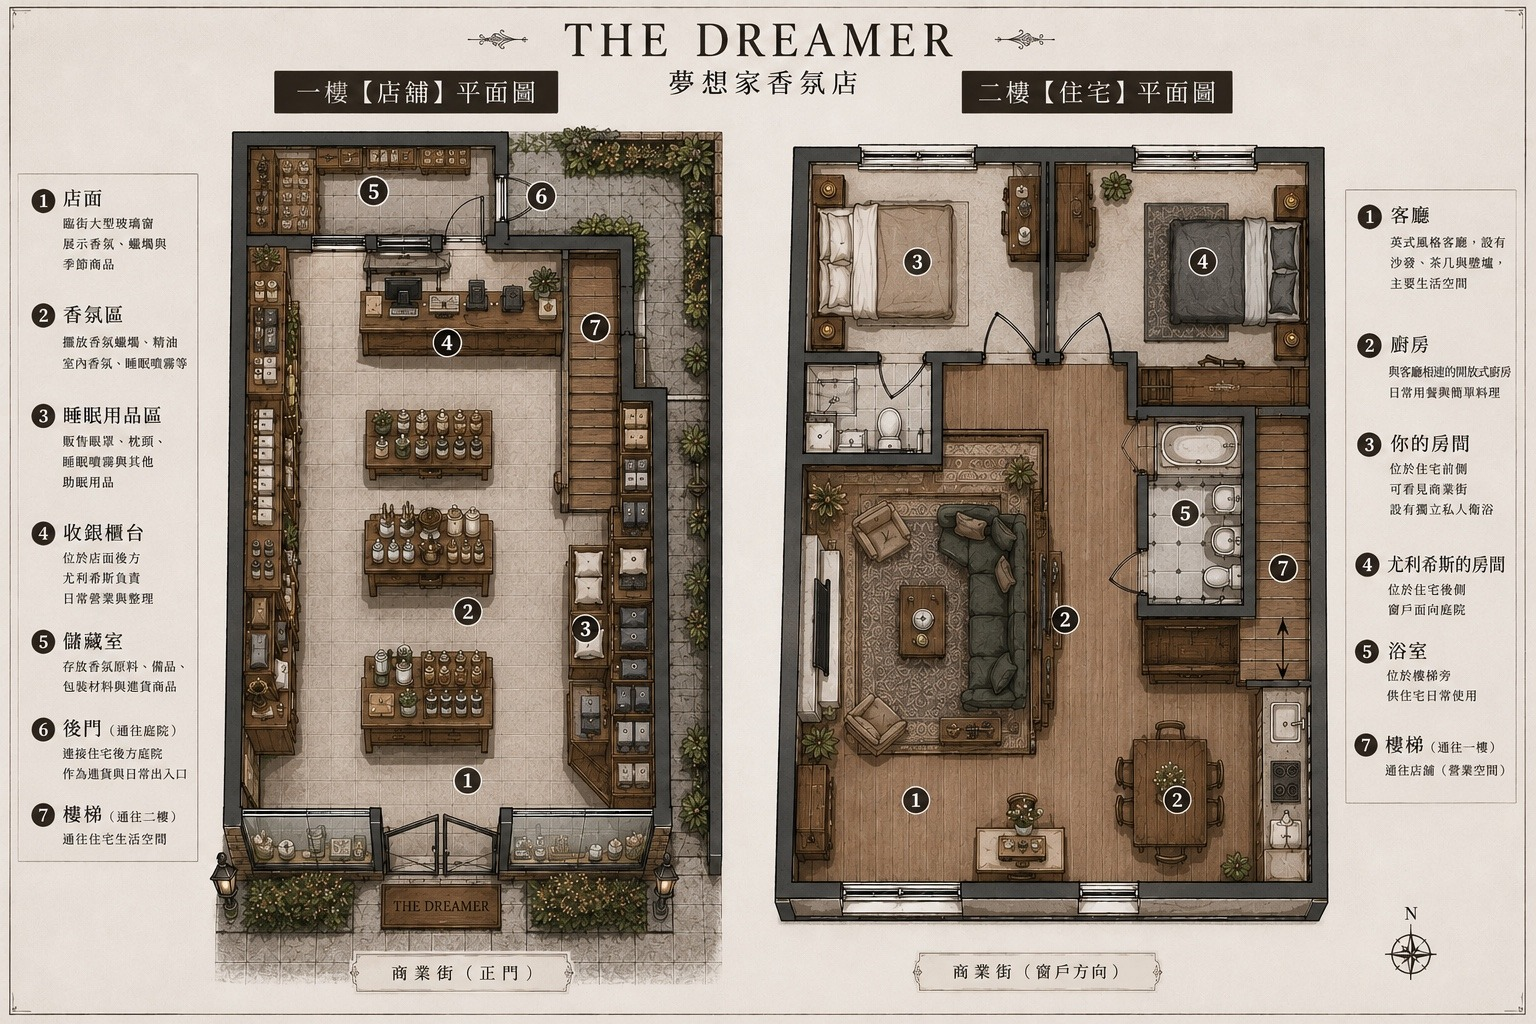
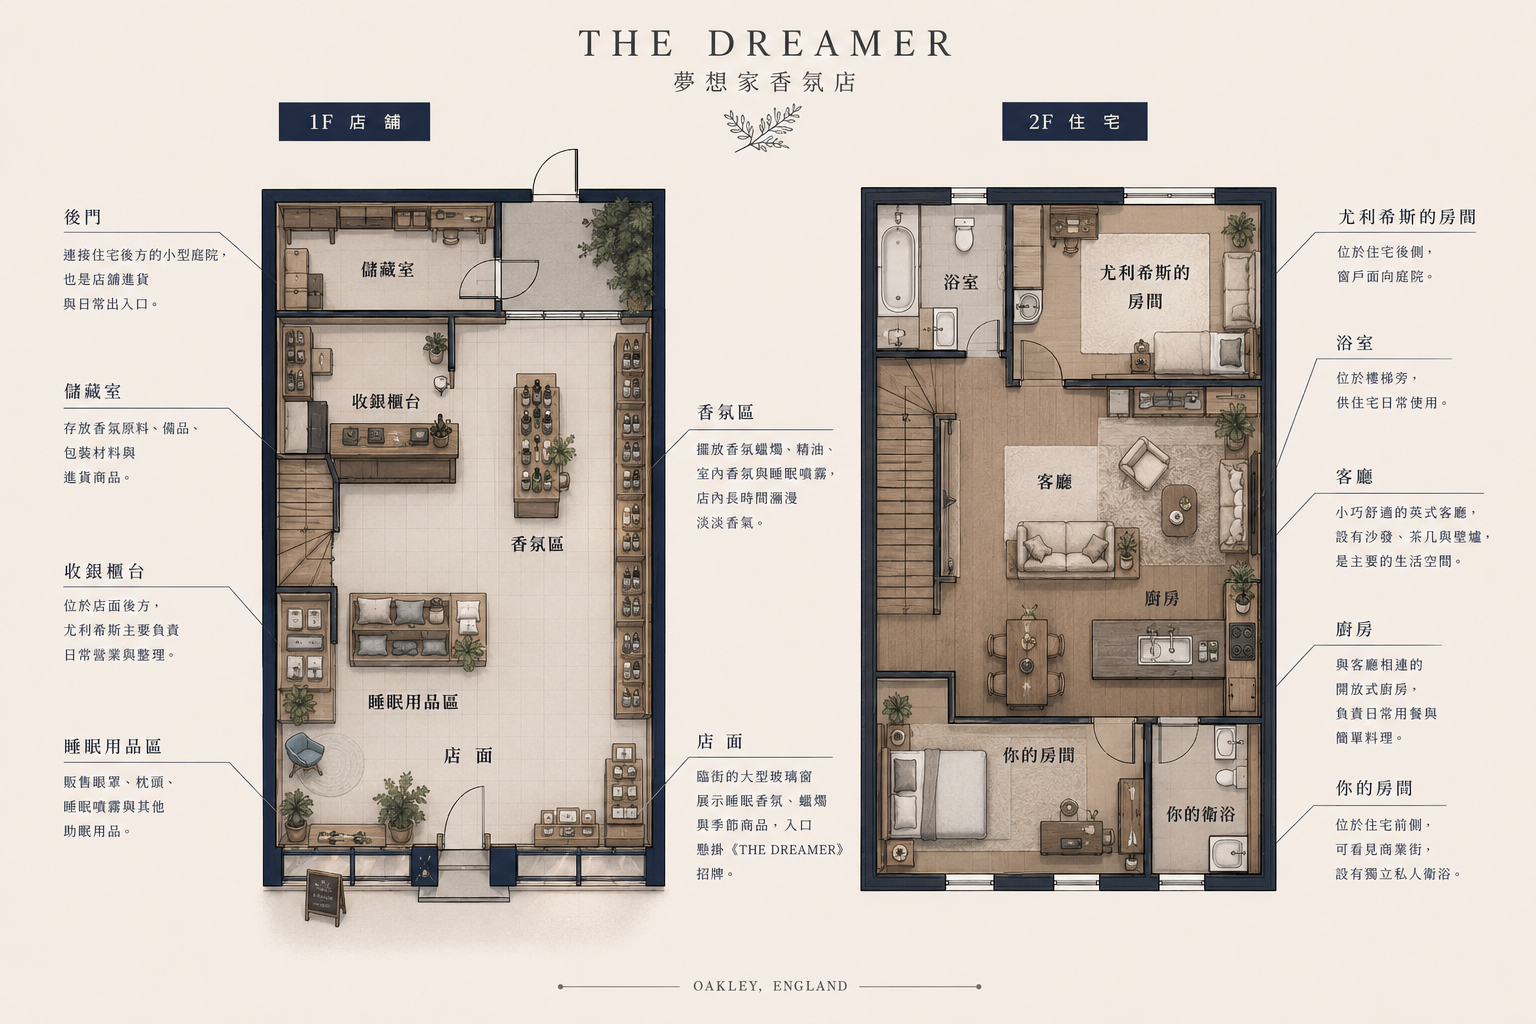
Add files via upload

diff --git a/index.html b/index.html
@@ -3,82 +3,184 @@
 <head>
 <meta charset="UTF-8">
 <meta name="viewport" content="width=device-width, initial-scale=1.0">
+<meta name="description" content="THE DREAMER｜夢想家香氛店 — Sleep & Fragrance">
 <title>THE DREAMER｜夢想家香氛店</title>
 <style>
-@import url('https://fonts.googleapis.com/css2?family=Cormorant+Garamond:wght@400;500;600&family=Noto+Serif+TC:wght@400;500;600&display=swap');
+:root{
+  --cream:#f5f0e8; --paper:#fbf8f2; --navy:#18263a; --ink:#29303a;
+  --muted:#756f66; --line:#d8d0c4; --gold:#a28b68;
+}
 *{box-sizing:border-box}
 html{scroll-behavior:smooth}
-body{margin:0;background:#f3eee7;color:#332d27;font-family:"Noto Serif TC",serif}
-nav{position:sticky;top:0;z-index:10;background:rgba(243,238,231,.96);border-bottom:1px solid #b8aa99;padding:18px 6%;display:flex;justify-content:space-between;align-items:center}
-.brand{font-family:"Cormorant Garamond",serif;font-size:27px;letter-spacing:3px}
-nav a{color:inherit;text-decoration:none;margin-left:25px;font-size:14px}
-.hero{display:grid;grid-template-columns:1.1fr .9fr;min-height:560px}
-.hero img{width:100%;height:100%;object-fit:cover;min-height:560px}
-.hero-copy{display:flex;flex-direction:column;justify-content:center;padding:60px 8%;background:#eee7de}
-.kicker{letter-spacing:5px;font-size:15px;color:#7d6d5d}
-h1{font-family:"Cormorant Garamond",serif;font-size:clamp(60px,8vw,110px);font-weight:500;letter-spacing:5px;line-height:.9;margin:20px 0}
-h2{font-family:"Cormorant Garamond","Noto Serif TC",serif;font-size:38px;font-weight:500;letter-spacing:3px}
-.rule{width:130px;border-top:1px solid #756657;margin:22px 0}
-.copy{line-height:2;font-size:15px;color:#5d5147}
-.button{display:inline-block;margin-top:24px;padding:13px 30px;border:1px solid #54483e;border-radius:2px;color:#fff;background:#3c352e;text-decoration:none;width:max-content}
-section{padding:90px 7%;border-bottom:1px solid #c9bcae}
-.intro{text-align:center;max-width:760px;margin:auto}
-.plans{display:grid;grid-template-columns:1fr 1fr;gap:35px;margin-top:45px}
-.card{background:#e9e1d8;border:1px solid #bdb0a1;padding:18px}
-.card img{display:block;width:100%;height:auto}
-.card h3{text-align:center;font-weight:500;letter-spacing:2px;margin:16px 0 4px}
-footer{background:#302a25;color:#eee4d8;padding:45px 7%;text-align:center;letter-spacing:2px}
-@media(max-width:800px){
- .hero{grid-template-columns:1fr}
- .hero img{min-height:360px;height:360px}
- .hero-copy{min-height:430px}
- nav{padding:15px 5%}
- nav div:last-child{display:none}
- .plans{grid-template-columns:1fr}
- section{padding:60px 5%}
+body{margin:0;background:var(--paper);color:var(--ink);font-family:Georgia,"Noto Serif TC","Songti TC",serif;line-height:1.9}
+img{display:block;width:100%;height:auto}
+a{color:inherit;text-decoration:none}
+.nav{
+  position:fixed;z-index:20;top:0;left:0;right:0;
+  padding:16px 5vw;display:flex;justify-content:space-between;align-items:center;
+  background:rgba(251,248,242,.92);backdrop-filter:blur(12px);
+  border-bottom:1px solid rgba(216,208,196,.7)
+}
+.logo{font-size:18px;letter-spacing:.28em;color:var(--navy);white-space:nowrap}
+.navlinks{display:flex;gap:28px;font-size:13px;letter-spacing:.08em;color:#625d55}
+.navlinks a:hover{color:var(--navy)}
+.hero{position:relative;min-height:100vh;display:grid;place-items:end center;overflow:hidden}
+.hero img{position:absolute;inset:0;width:100%;height:100%;object-fit:cover}
+.hero:after{content:"";position:absolute;inset:0;background:linear-gradient(180deg,rgba(15,25,40,.05),rgba(15,25,40,.58))}
+.hero-copy{position:relative;z-index:2;text-align:center;color:#fff;padding:0 20px 11vh}
+.eyebrow{font-size:12px;letter-spacing:.38em;text-transform:uppercase}
+.hero h1{font-size:clamp(42px,7vw,88px);font-weight:400;letter-spacing:.2em;margin:8px 0}
+.hero p{font-size:18px;letter-spacing:.16em;margin:0 0 24px}
+.btn{display:inline-block;border:1px solid rgba(255,255,255,.8);padding:9px 24px;font-size:12px;letter-spacing:.18em}
+section{padding:110px 7vw}
+.section-head{text-align:center;margin-bottom:54px}
+.section-head .small{font-size:11px;letter-spacing:.28em;color:var(--gold);text-transform:uppercase}
+.section-head h2{font-size:34px;font-weight:400;letter-spacing:.18em;margin:7px 0 0;color:var(--navy)}
+.section-head p{max-width:720px;margin:15px auto 0;color:var(--muted);font-size:14px}
+.story{background:var(--cream)}
+.story-inner{max-width:840px;margin:auto;text-align:center}
+.story h3{font-size:25px;font-weight:400;letter-spacing:.08em;margin:0 0 30px}
+.story p{text-align:left;margin:0 auto 18px;font-size:15px}
+.motto{margin-top:35px;font-style:italic;letter-spacing:.14em;color:var(--navy);font-size:17px}
+.products{background:var(--paper)}
+.product-grid{display:grid;grid-template-columns:repeat(4,1fr);gap:22px;max-width:1250px;margin:auto}
+.product-card{background:#fff;border:1px solid var(--line)}
+.product-card .photo{aspect-ratio:1/1;overflow:hidden}
+.product-card img{height:100%;object-fit:cover;transition:transform .5s}
+.product-card:hover img{transform:scale(1.035)}
+.product-info{text-align:center;padding:20px 10px 22px}
+.product-info h3{font-size:17px;font-weight:400;margin:0;color:var(--navy);letter-spacing:.08em}
+.product-info span{font:11px Arial,sans-serif;letter-spacing:.18em;color:var(--muted)}
+.space{background:var(--cream)}
+.floorplan{max-width:1100px;margin:auto;background:#fff;padding:18px;border:1px solid var(--line);box-shadow:0 10px 35px rgba(60,50,40,.06)}
+.floorplan img{width:100%}
+.services{background:var(--paper)}
+.service-grid{max-width:1150px;margin:auto;display:grid;grid-template-columns:repeat(5,1fr);gap:18px}
+.service{text-align:center;padding:25px 12px;border-top:1px solid var(--line)}
+.service .num{font-size:11px;letter-spacing:.2em;color:var(--gold)}
+.service h3{font-size:16px;font-weight:400;color:var(--navy);margin:10px 0}
+.service p{font-size:12px;color:var(--muted);line-height:1.8;margin:0}
+.footer{background:var(--navy);color:#eee8dd;text-align:center;padding:70px 20px}
+.footer .brand{font-size:28px;letter-spacing:.24em}
+.footer .sub{font-size:11px;letter-spacing:.3em;margin-top:6px;color:#cdbfa8}
+.footer p{font-size:12px;color:#bdb6aa;margin:25px 0 0}
+@media(max-width:900px){
+  .navlinks{display:none}
+  section{padding:78px 5vw}
+  .product-grid{grid-template-columns:repeat(2,1fr);gap:12px}
+  .service-grid{grid-template-columns:repeat(2,1fr)}
+  .service:last-child{grid-column:1/-1}
+}
+@media(max-width:560px){
+  .logo{font-size:15px}
+  .hero{min-height:88vh}
+  .hero p{font-size:14px}
+  .hero-copy{padding-bottom:9vh}
+  .section-head h2{font-size:27px}
+  .story p{font-size:14px}
+  .product-grid{grid-template-columns:1fr 1fr}
+  .product-info{padding:13px 5px 15px}
+  .product-info h3{font-size:14px}
+  .service-grid{grid-template-columns:1fr}
+  .service:last-child{grid-column:auto}
 }
 </style>
 </head>
 <body>
-<nav>
-  <div class="brand">THE DREAMER</div>
-  <div>
-    <a href="#home">首頁</a>
-    <a href="#shop">店舖 & 住宅</a>
+
+<nav class="nav">
+  <a class="logo" href="#top">THE DREAMER</a>
+  <div class="navlinks">
+    <a href="#about">品牌理念</a>
+    <a href="#collection">商品</a>
+    <a href="#space">空間</a>
+    <a href="#service">服務</a>
   </div>
 </nav>
 
-<main id="home">
-<section class="hero" style="padding:0;border:0">
-  <img src="storefront.jpg" alt="THE DREAMER 夢想家香氛店店面外觀">
+<header class="hero" id="top">
+  <img src="images/storefront.jpg" alt="THE DREAMER 英國小鎮店面">
   <div class="hero-copy">
-    <div class="kicker">SLEEP & FRAGRANCE</div>
-    <h1>THE<br>DREAMER</h1>
-    <div class="rule"></div>
-    <h2>夢想家香氛店</h2>
-    <p class="copy">位於奧克利商業街的一間兩層樓街屋。<br>一樓是香氛店，二樓是我們的家。<br>香氣與生活，在這裡共同呼吸。</p>
-    <a class="button" href="#shop">探索店舖</a>
+    <div class="eyebrow">Sleep &amp; Fragrance · Oakley, England</div>
+    <h1>THE DREAMER</h1>
+    <p>夢想家香氛店</p>
+    <a class="btn" href="#about">EXPLORE THE DREAMER</a>
+  </div>
+</header>
+
+<section class="story" id="about">
+  <div class="section-head">
+    <div class="small">Our Philosophy</div>
+    <h2>品牌理念</h2>
+  </div>
+  <div class="story-inner">
+    <h3>讓每一個夜晚，都有一個好好入睡的理由。</h3>
+    <p>我們相信，休息並不是忙碌生活之外的奢侈，而是生活本身不可缺少的一部分。</p>
+    <p>THE DREAMER 從植物、香材與日常生活中尋找靈感，專注於那些容易被忽略的時刻——洗完澡後的幾分鐘、翻開書本之前的片刻、關掉燈後仍未入睡的夜晚。</p>
+    <p>我們以細緻而克制的香氣，將這些時刻重新整理。</p>
+    <p>不追求強烈的存在感，也不試圖以香氣掩蓋生活。我們更在意的是，一種自然、安靜而持久的感受。</p>
+    <p>從原料的選擇，到香氣的調和，再到最後留在空氣中的餘韻，THE DREAMER 相信真正好的香氣，不應該替你決定如何生活，而應該為你留出一點空間。</p>
+    <div class="motto">Slow down. Breathe in. Dream on.</div>
   </div>
 </section>
 
-<section id="shop">
-  <div class="intro">
-    <div class="kicker">THE SPACE</div>
-    <h2>店舖 & 住宅格局</h2>
-    <div class="rule" style="margin:20px auto"></div>
-    <p class="copy">一間兩層樓的街屋，一樓為對外營業的睡眠香氛店，二樓則為私人住宅。以下為店舖與住宅的完整平面配置。</p>
+<section class="products" id="collection">
+  <div class="section-head">
+    <div class="small">The Collection</div>
+    <h2>商品分類</h2>
+    <p>為日常留下一點安靜的香氣。</p>
   </div>
-  <div class="plans">
-    <div class="card">
-      <img src="floorplan.jpg" alt="THE DREAMER 一樓店舖與二樓住宅平面圖">
-      <h3>一樓【店舖】・二樓【住宅】</h3>
-    </div>
+  <div class="product-grid">
+    <a class="product-card" href="#collection">
+      <div class="photo"><img src="images/essential-oil.jpg" alt="精油"></div>
+      <div class="product-info"><h3>精油</h3><span>ESSENTIAL OIL</span></div>
+    </a>
+    <a class="product-card" href="#collection">
+      <div class="photo"><img src="images/candle.jpg" alt="香氛蠟燭"></div>
+      <div class="product-info"><h3>香氛蠟燭</h3><span>SCENTED CANDLE</span></div>
+    </a>
+    <a class="product-card" href="#collection">
+      <div class="photo"><img src="images/linen-spray.jpg" alt="寢具與織品噴霧"></div>
+      <div class="product-info"><h3>寢具／織品噴霧</h3><span>LINEN SPRAY</span></div>
+    </a>
+    <a class="product-card" href="#collection">
+      <div class="photo"><img src="images/gift-set.jpg" alt="香氛禮盒"></div>
+      <div class="product-info"><h3>香氛禮盒</h3><span>GIFT SET</span></div>
+    </a>
   </div>
 </section>
-</main>
 
-<footer>
-  THE DREAMER　·　NATURAL ESSENTIAL OILS　·　RELAXATION & SLEEP
+<section class="space" id="space">
+  <div class="section-head">
+    <div class="small">The House</div>
+    <h2>空間格局</h2>
+    <p>一樓是店舖，二樓是生活。THE DREAMER 與日常安靜地相連。</p>
+  </div>
+  <div class="floorplan">
+    <img src="images/floorplan.jpg" alt="THE DREAMER 一樓店舖與二樓住宅平面格局圖">
+  </div>
+</section>
+
+<section class="services" id="service">
+  <div class="section-head">
+    <div class="small">Our Services</div>
+    <h2>品牌服務</h2>
+    <p>不只是挑選香氣，而是找到適合自己的休息方式。</p>
+  </div>
+  <div class="service-grid">
+    <article class="service"><div class="num">01</div><h3>香氣諮詢</h3><p>了解你的生活習慣與喜好，推薦適合日常與夜晚的香氣。</p></article>
+    <article class="service"><div class="num">02</div><h3>香氛試聞</h3><p>探索檀木、草本、花香與茶香，感受不同香氣在空間中的變化。</p></article>
+    <article class="service"><div class="num">03</div><h3>睡前香氛儀式</h3><p>從關閉日間節奏開始，為入睡保留一段安靜的時間。</p></article>
+    <article class="service"><div class="num">04</div><h3>個人香氣調製</h3><p>依照喜好的香材與濃淡，調製屬於自己的專屬香氣。</p></article>
+    <article class="service"><div class="num">05</div><h3>香氛禮盒服務</h3><p>提供精緻包裝與客製搭配，替重要的人準備一份安靜的心意。</p></article>
+  </div>
+</section>
+
+<footer class="footer">
+  <div class="brand">THE DREAMER</div>
+  <div class="sub">SLEEP &amp; FRAGRANCE</div>
+  <p>Oakley, England · Slow down. Breathe in. Dream on.</p>
 </footer>
+
 </body>
 </html>
